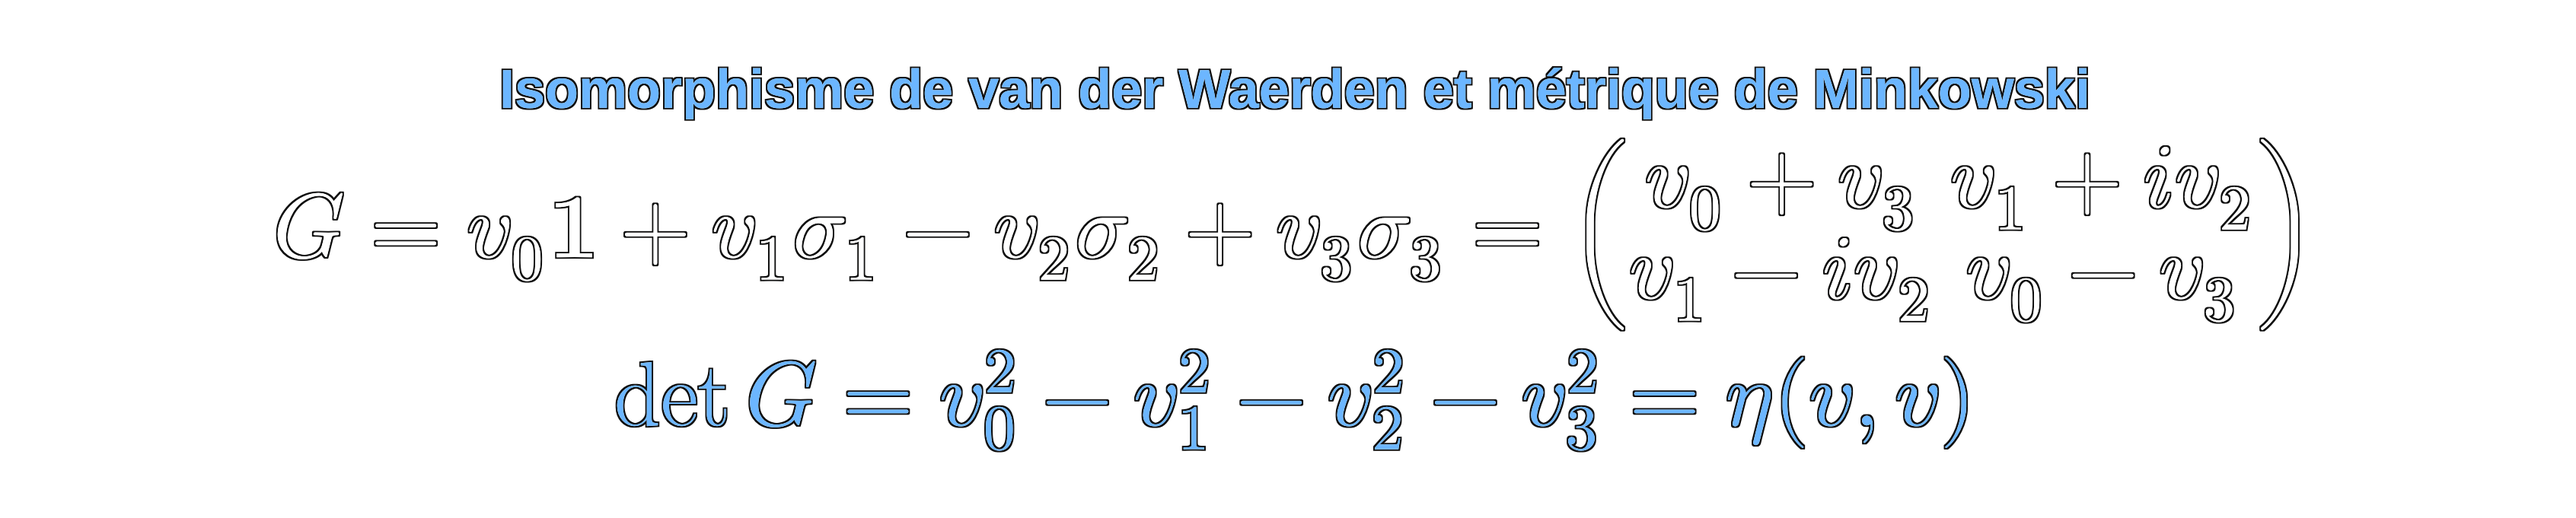
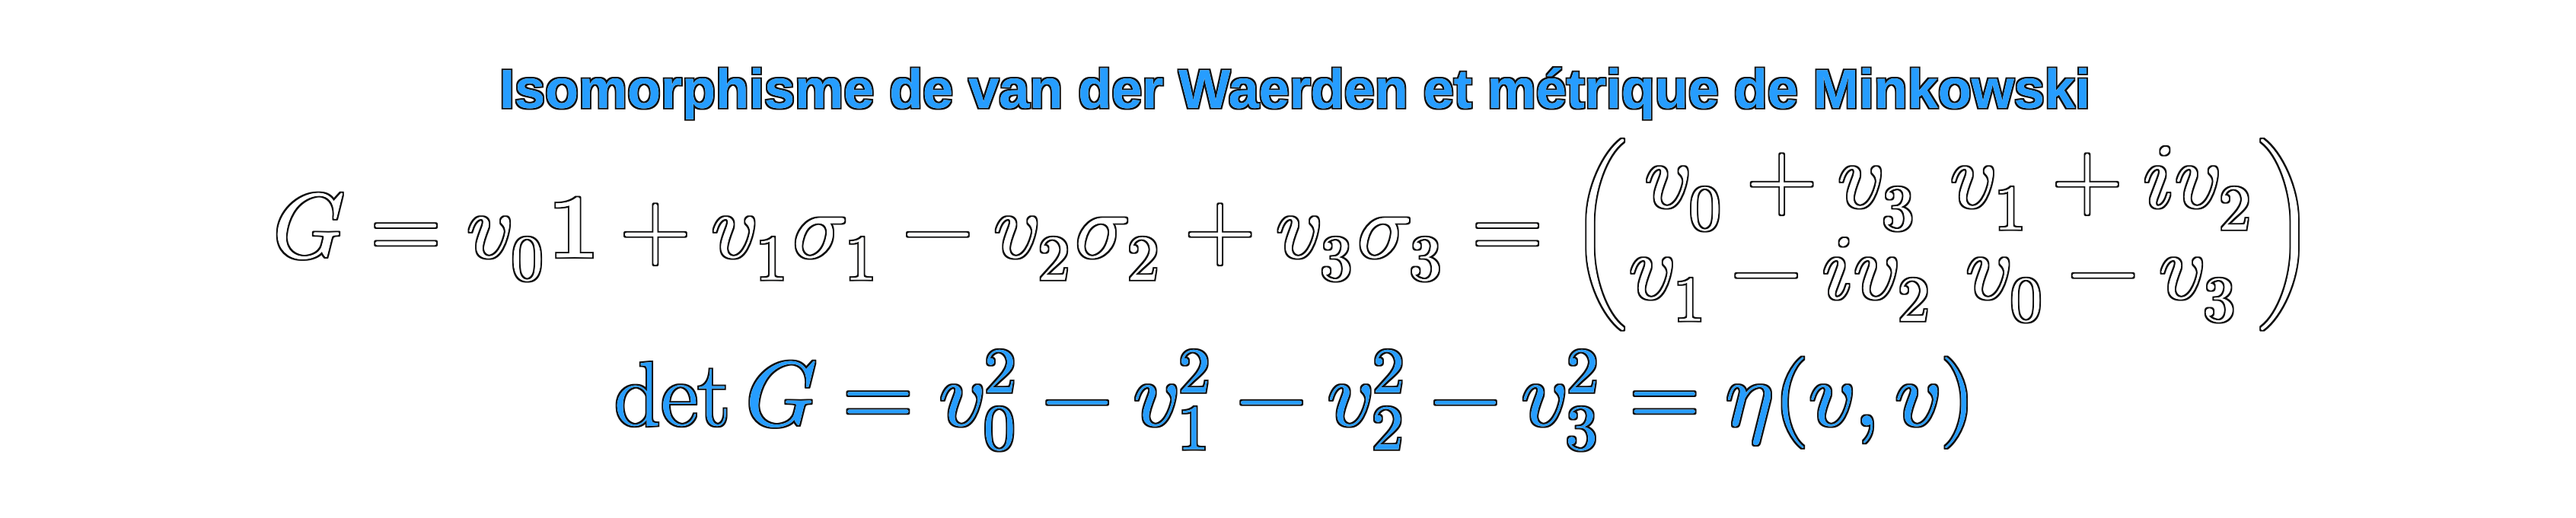
style(landing): copper-sulfate blue dark mode, escape table pipes and translator-safe parens

diff --git a/README.md b/README.md
@@ -6,7 +6,7 @@
 ### L'incertitude d'une paire d'observables est un quadrivecteur de Minkowski strictement enfermé dans le cône de lumière futur
 
 **Eduardo Nava Hernández**  
-*Vérification formelle certifiée en Lean 4 · 0 sorry · Mathlib (ZFC)*
+*Vérification formelle certifiée en Lean 4 · 0 sorry · Mathlib (<code>ZFC</code>)*
 
 [![Lean 4](https://img.shields.io/badge/Lean_4-v4.35.0-blue.svg?style=flat-square)](https://leanprover.github.io/)
 [![Mathlib](https://img.shields.io/badge/Mathlib-vérifié-2ea44f.svg?style=flat-square)](https://github.com/leanprover-community/mathlib4)
@@ -107,7 +107,7 @@
 | PR Physlib | Titre | Lien avec ce dépôt | Statut |
 |:---:|:---|:---|:---:|
 | [**#1649**](https://github.com/leanprover-community/physlib/pull/1649) | characterize equality in state uncertainty relations | Égalité dans Robertson–Schrödinger ⟺ défaut de Gram nul : le vecteur est sur le cône, étape 2 | **MERGED** |
-| [**#1730**](https://github.com/leanprover-community/physlib/pull/1730) | Robertson determinant | `|det Ω| ≤ det Σ` (Robertson 1934), rendu strict dans la bande par `robertson_det_strict_of_band` | **MERGED** |
+| [**#1730**](https://github.com/leanprover-community/physlib/pull/1730) | Robertson determinant | `\|det Ω\| ≤ det Σ` (Robertson 1934), rendu strict dans la bande par `robertson_det_strict_of_band` | **MERGED** |
 | [**#1745**](https://github.com/leanprover-community/physlib/pull/1745) | velocity band of forced uncertainty in the open tight binding chain | La bande de vitesse où le défaut est forcé : l'intérieur strict du cône (`Band.lean`) | **MERGED** |
 | [**#1756**](https://github.com/leanprover-community/physlib/pull/1756) | the NRS angle and the volumetric quantum of the open tight binding cube | `θ_NRS = arccos(1 / C_N)` : la vitesse `β = cos θ_NRS` de l'étape 4 | **MERGED** |
 
@@ -121,7 +121,7 @@
 | [`NRS3UncertaintyCone/Cone.lean`](NRS3UncertaintyCone/Cone.lean) | `null_maxCurrentState_iff` | Vecteur nul ⟺ `d = 2, 3` dans l'état de courant maximal | 0 |
 | [`NRS3UncertaintyCone/TimeDilation.lean`](NRS3UncertaintyCone/TimeDilation.lean) | `properTime_maxCurrentState_pos` | Temps propre relativiste strictement positif dès `d = 4` | 0 |
 | [`NRS3UncertaintyCone/RoundTrip.lean`](NRS3UncertaintyCone/RoundTrip.lean) | `two_mul_properTime_le_round_trip` | L'aller-retour porte au moins `2 τ` | 0 |
-| [`NRS3UncertaintyCone/Band.lean`](NRS3UncertaintyCone/Band.lean) | `robertson_det_strict_of_band` | Dans la bande, `|det Ω| < det Σ` | 0 |
+| [`NRS3UncertaintyCone/Band.lean`](NRS3UncertaintyCone/Band.lean) | `robertson_det_strict_of_band` | Dans la bande, `\|det Ω\| < det Σ` | 0 |
 
 ### Portée
 
@@ -136,7 +136,7 @@
 |:---|:---|
 | [`00 · bacqm-substrate`](https://github.com/naype888-cloud/bacqm-systems) | Substrat matériel & moteur du noyau Linux : modules de mémoire dynamiques en temps réel |
 | [`01 · nava-robertson-schrodinger`](https://github.com/naype888-cloud/nava-robertson-schrodinger) | Le canon : l'incertitude élémentaire dimensionnelle sur le cube ouvert, ℂᵈ ⊗ ℂᵈ ⊗ ℂᵈ |
-| [`02 · Proper-Time-General-Relativity`](https://github.com/naype888-cloud/Proper-Time-General-Relativity) | Le temps compte les pas : τ = 1/(φ|t|) à quatre sites ; masse effective, équivalence, gravitation |
+| [`02 · Proper-Time-General-Relativity`](https://github.com/naype888-cloud/Proper-Time-General-Relativity) | Le temps compte les pas : τ = 1/(φ\|t\|) à quatre sites ; masse effective, équivalence, gravitation |
 | [`03 · nrs3-mandelstam-tamm-cramer-rao`](https://github.com/naype888-cloud/nrs3-mandelstam-tamm-cramer-rao) | Mandelstam–Tamm et Cramér–Rao : aucun état n'est orthogonal à lui-même avant πħ/(2ΔE) |
 | [`04 · YM-By-Perelmans-surgery-method`](https://github.com/naype888-cloud/YM-By-Perelmans-surgery-method) | Yang–Mills sur réseau : loi d'aire uniforme, matrice de transfert, défaut de fibre (0 sorry) |
 | [`05 · nrs3-tightbinding`](https://github.com/naype888-cloud/nrs3-tightbinding) | La chaîne de Physlib, le cube ouvert et la table périodique (H–Og), un cube 3D par élément |
